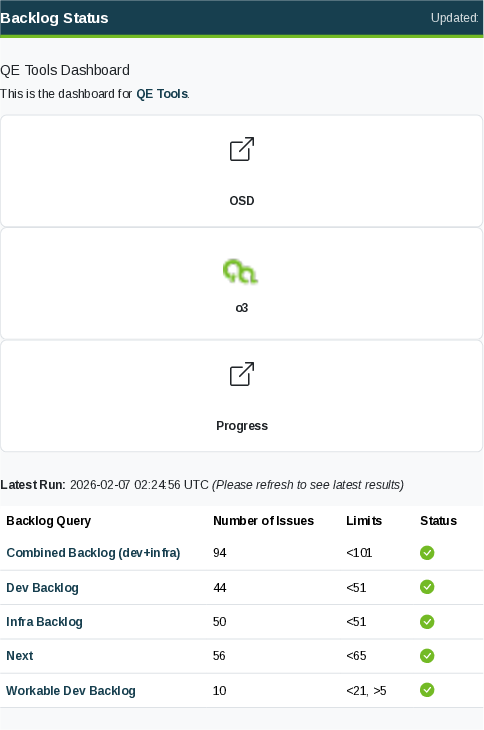
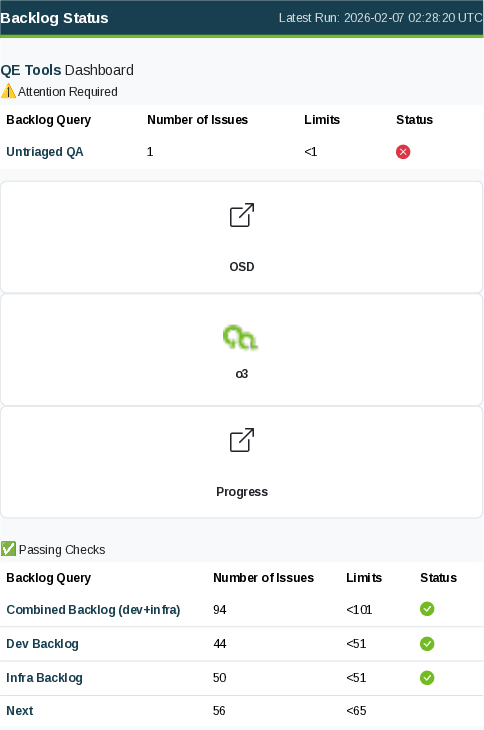
Deploying to gh-pages from @ r-richardson/qa-tools-backlog-assistant@56ece82e0ad66f2f0632d4b194063a45e155c7c6 🚀

diff --git a/index.html b/index.html
@@ -144,14 +144,21 @@
   <div class="container">
     <a class="navbar-brand" href="#">Backlog Status</a>
     <span class="navbar-text">
-       Updated: <span id="last-updated"></span>
+       Latest Run: 2026-02-07 02:28:20 UTC
     </span>
   </div>
 </nav>
 
 <div class="container">
-<main><h3 id="qe-tools-dashboard">QE Tools Dashboard</h3>
-<p>This is the dashboard for <a href="https://progress.opensuse.org/projects/qa/wiki/Tools">QE Tools</a>.</p>
+<main><h3 id="qe-toolshttpsprogressopensuseorgprojectsqawikitools-dashboard"><a href="https://progress.opensuse.org/projects/qa/wiki/Tools">QE Tools</a> Dashboard</h3>
+
+<h4 id="attention-required">⚠ Attention Required</h4>
+<div class="table-responsive">
+<table class="table table-hover">
+<thead><tr><th>Backlog Query</th><th>Number of Issues</th><th>Limits</th><th>Status</th></tr></thead>
+<tbody>
+<tr><td><a href="https://progress.opensuse.org/issues?query_id=576&amp;project_id=115">Untriaged QA</a></td><td>1</td><td>&lt;1</td><td><i class="bi bi-x-circle-fill status-fail"></i></td></tr>
+</tbody></table></div>
 
 <div class="app-grid">
 
@@ -174,9 +181,7 @@
         
 </div>
 
-<p><strong>Latest Run:</strong> 2026-02-07 02:24:56 UTC
-<em>(Please refresh to see latest results)</em></p>
-
+<h4 id="passing-checks">✅ Passing Checks</h4>
 <div class="table-responsive">
 <table class="table table-hover">
 <thead><tr><th>Backlog Query</th><th>Number of Issues</th><th>Limits</th><th>Status</th></tr></thead>
@@ -188,7 +193,6 @@
 <tr><td><a href="https://progress.opensuse.org/issues?query_id=1192">Workable Dev Backlog</a></td><td>10</td><td>&lt;21, &gt;5</td><td><i class="bi bi-check-circle-fill status-pass"></i></td></tr>
 <tr><td><a href="https://progress.opensuse.org/issues?query_id=1195">Workable Infra Backlog</a></td><td>8</td><td>&lt;21, &gt;5</td><td><i class="bi bi-check-circle-fill status-pass"></i></td></tr>
 <tr><td><a href="https://progress.opensuse.org/issues?query_id=514">Exceeding Due Date</a></td><td>0</td><td>&lt;1</td><td><i class="bi bi-check-circle-fill status-pass"></i></td></tr>
-<tr><td><a href="https://progress.opensuse.org/issues?query_id=576&amp;project_id=115">Untriaged QA</a></td><td>1</td><td>&lt;1</td><td><i class="bi bi-x-circle-fill status-fail"></i></td></tr>
 <tr><td><a href="https://progress.opensuse.org/issues?query_id=481">Untriaged Tools Tagged</a></td><td>0</td><td>&lt;1</td><td><i class="bi bi-check-circle-fill status-pass"></i></td></tr>
 <tr><td><a href="https://progress.opensuse.org/issues?query_id=542">SLA immediate (&lt;1 day)</a></td><td>0</td><td>&lt;1</td><td><i class="bi bi-check-circle-fill status-pass"></i></td></tr>
 <tr><td><a href="https://progress.opensuse.org/issues?query_id=543">SLA urgent (&lt;1 week)</a></td><td>0</td><td>&lt;1</td><td><i class="bi bi-check-circle-fill status-pass"></i></td></tr>
@@ -202,6 +206,7 @@
 <tr><td><a href="https://progress.opensuse.org/issues?query_id=520">In Feedback</a></td><td>5</td><td>&lt;11</td><td><i class="bi bi-check-circle-fill status-pass"></i></td></tr>
 <tr><td><a href="https://progress.opensuse.org/issues?query_id=773">Closed yesterday</a></td><td>5</td><td></td><td><i class="bi bi-check-circle-fill status-pass"></i></td></tr>
 </tbody></table></div>
+
 </main>
 </div>
 
@@ -213,11 +218,6 @@
         </p>
     </div>
 </footer>
-
-<script>
-    // Simple script to set the update time if not provided by server
-    document.getElementById('last-updated').textContent = new Date().toUTCString();
-</script>
 
 </body>
 </html>
